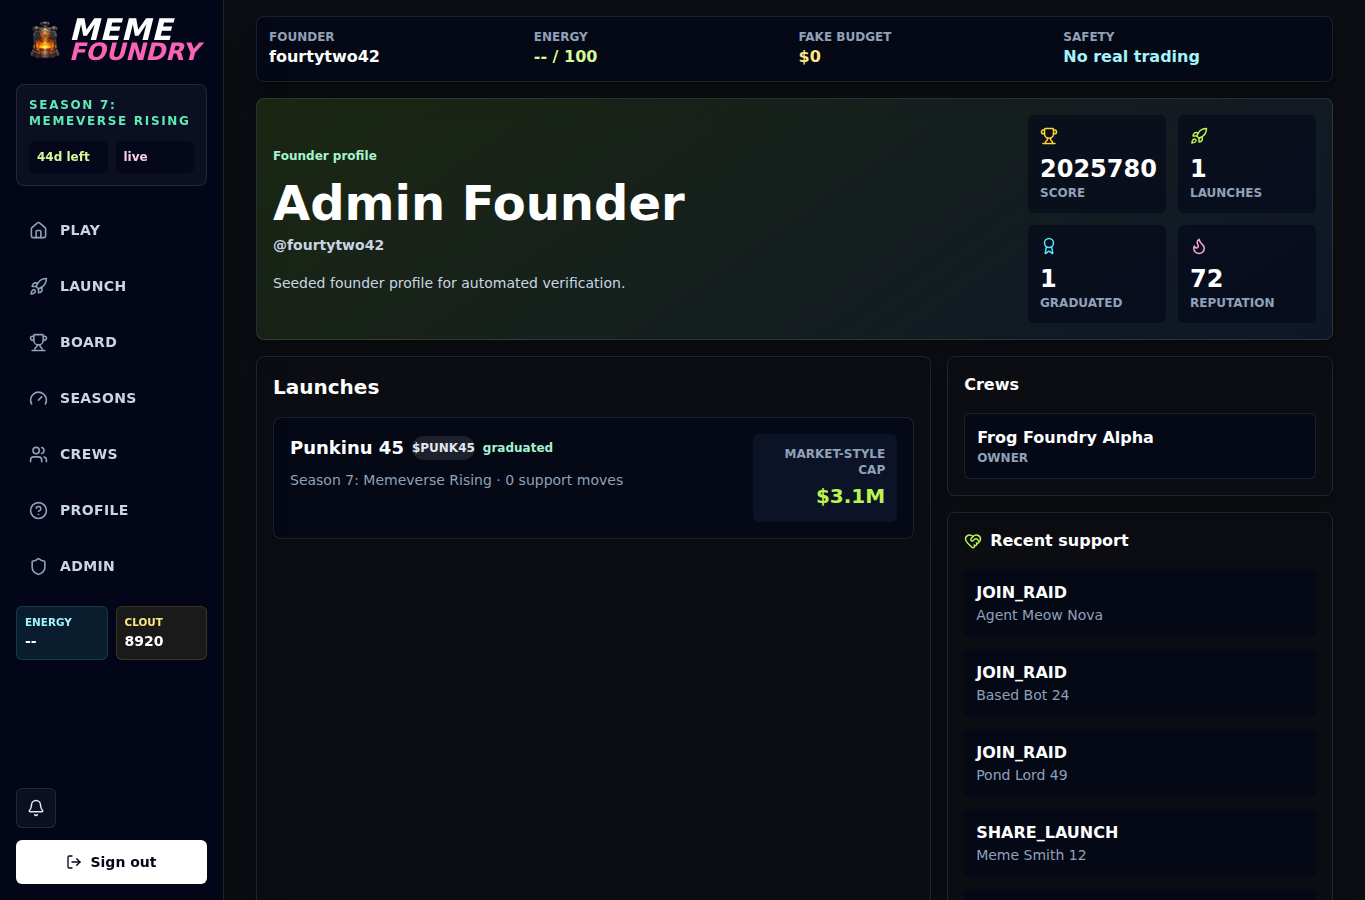
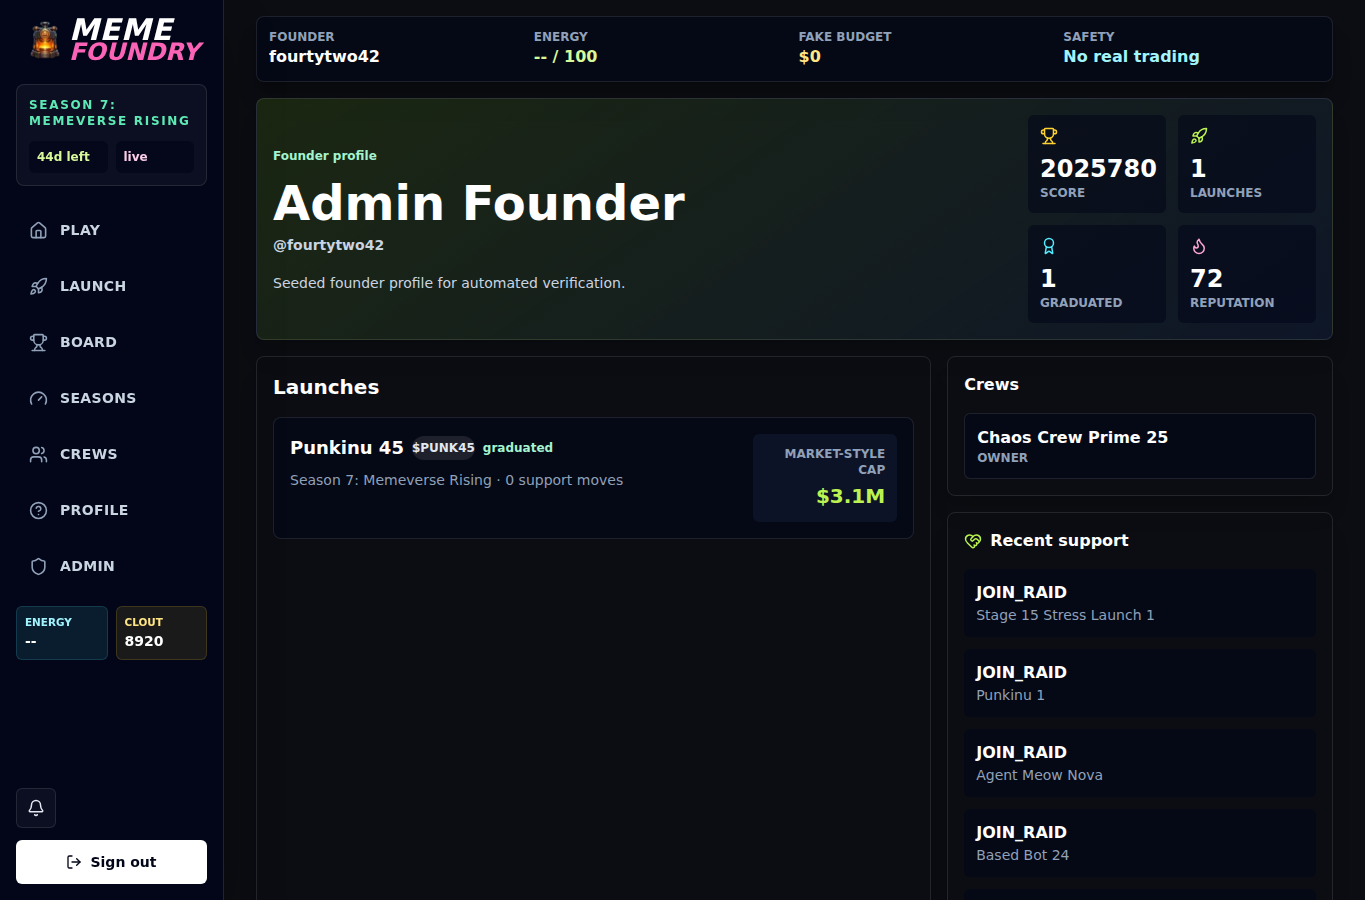
Record PRD screen final acceptance

diff --git a/scripts/stage15-stress.ts b/scripts/stage15-stress.ts
@@ -29,8 +29,11 @@ async function main() {
     Array.from({ length: launchClients }, async (_, index) => {
       const ordinal = index + 1;
       const user = await prisma.user.upsert({
-        where: { username: `stage15_stress_founder_${ordinal}` },
-        update: { status: "active" },
+        where: { email: `stage15-stress-founder-${ordinal}@example.com` },
+        update: {
+          status: "active",
+          username: `stage15_stress_founder_${ordinal}`
+        },
         create: {
           email: `stage15-stress-founder-${ordinal}@example.com`,
           username: `stage15_stress_founder_${ordinal}`,
@@ -87,8 +90,12 @@ async function main() {
   const supportUsers = await Promise.all(
     Array.from({ length: supportClients }, (_, index) =>
       prisma.user.upsert({
-        where: { username: `stage15_stress_supporter_${index + 1}` },
-        update: { status: "active", supportEnergy: 100 },
+        where: { email: `stage15-stress-supporter-${index + 1}@example.com` },
+        update: {
+          status: "active",
+          supportEnergy: 100,
+          username: `stage15_stress_supporter_${index + 1}`
+        },
         create: {
           email: `stage15-stress-supporter-${index + 1}@example.com`,
           username: `stage15_stress_supporter_${index + 1}`,

diff --git a/docs/evidence/prd-screen-alignment-final/REPORT.md b/docs/evidence/prd-screen-alignment-final/REPORT.md
@@ -1,0 +1,118 @@
+# PRD Screen Alignment Final Acceptance Report
+
+Date: 2026-05-13
+Target: `http://192.168.50.209`
+Roadmap: `PRD_SCREEN_ALIGNMENT_ROADMAP.md`
+Evidence folder: `docs/evidence/prd-screen-alignment-final/`
+
+## Objective Restatement
+
+Complete the PRD screen alignment pass for the live host-native VM app. The eight live routes now materially track the generated PRD reference screens while preserving the real production app: Next.js, Prisma/Postgres, Auth.js, realtime, game actions, support actions, crews, seasons, local AI, local image generation, admin operations, backups, degraded states, and release gates.
+
+## Final Screenshot Set
+
+The final evidence folder contains desktop, tablet, and mobile screenshots copied from the refreshed responsive visual audit for all PRD-mapped routes:
+
+- `desktop-play.png`, `tablet-play.png`, `mobile-play.png`
+- `desktop-launch-wizard.png`, `tablet-launch-wizard.png`, `mobile-launch-wizard.png`
+- `desktop-manage-launch.png`, `tablet-manage-launch.png`, `mobile-manage-launch.png`
+- `desktop-public-token.png`, `tablet-public-token.png`, `mobile-public-token.png`
+- `desktop-season-detail.png`, `tablet-season-detail.png`, `mobile-season-detail.png`
+- `desktop-leaderboard.png`, `tablet-leaderboard.png`, `mobile-leaderboard.png`
+- `desktop-crew-detail.png`, `tablet-crew-detail.png`, `mobile-crew-detail.png`
+- `desktop-admin.png`, `tablet-admin.png`, `mobile-admin.png`
+
+Supporting screenshots for home, founder profile, and admin asset gallery are also included because the visual audit captures the full 11-route release surface.
+
+## Reference Mapping
+
+| PRD reference                   | Live route           | Final evidence        | Alignment result                                                                                                                                                                        |
+| ------------------------------- | -------------------- | --------------------- | --------------------------------------------------------------------------------------------------------------------------------------------------------------------------------------- |
+| `01_play_home_command_hub.png`  | `/play`              | `*-play.png`          | Left rail, no-real-trading badge, active token art, market pulse, recommended move, live metas, global events, leaderboard preview, and crew state are visible in a denser command hub. |
+| `02_launch_wizard.png`          | `/launch/new`        | `*-launch-wizard.png` | Guided Basics/Narrative/Mascot/Strategy/Review flow, visual narrative cards, strong preview card, and image fallback/queued status align with the PRD wizard direction.                 |
+| `03_active_token_dashboard.png` | `/launch/:id/manage` | `*-manage-launch.png` | Active situation cards, recommended move, larger chart, grouped stats, right rail, supporter/crew/narrative context, and realtime state are surfaced near the top.                      |
+| `04_public_token_page.png`      | `/token/:id`         | `*-public-token.png`  | Public token hero, support cards, simulated-only copy, token art, chart/stats, event feed, top supporters, NPC posts, and image status are closer to the reference.                     |
+| `05_season_narratives.png`      | `/seasons/:slug`     | `*-season-detail.png` | Wide season banner, active status, daily challenge, AI commentary, and image-forward narrative heat cards with heat/saturation/fatigue bars are present.                                |
+| `06_leaderboard.png`            | `/leaderboard`       | `*-leaderboard.png`   | Stronger competitive header, season art, search/filter row, ranked rows with token art/movement, rewards, rivals, and player-rank context are visible.                                  |
+| `07_crew_page.png`              | `/crews/:slug`       | `*-crew-detail.png`   | Crew hero, generated badge/avatar art, resources, featured launch, members, crew actions, event feed, and badge/reward treatment align more closely.                                    |
+| `08_admin_dashboard.png`        | `/admin`             | `*-admin.png`         | Dedicated admin shell, health/scale cards, queue/report/AI/image/admin sections, system alerts, refresh controls, and degraded-state visibility appear as an operations console.        |
+
+## Browser-Use Final Acceptance
+
+Browser-use checked all eight PRD-mapped routes after restarting host-native services.
+
+| Route                                      | Required text confirmed                                                   | Console errors |
+| ------------------------------------------ | ------------------------------------------------------------------------- | -------------- |
+| `/play`                                    | No real trading; Market pulse; Recommended; Leaderboard; Crew             | 0              |
+| `/launch/new`                              | Basics; Narrative; Mascot; Strategy; Review                               | 0              |
+| `/launch/cmp2nzjhx0000xdoai640jhgs/manage` | Recommended move; Market cap movement; Choose the next move; Live updates | 0              |
+| `/token/cmp23lyrz000b29oa92r3uyru`         | Public launch page; Help without trading; Support; Top supporters         | 0              |
+| `/seasons/scale-season`                    | Season; Narrative; Heat; Daily challenge                                  | 0              |
+| `/leaderboard`                             | Leaderboard; Search; Rewards; Rank                                        | 0              |
+| `/crews/stage11-scale-crew-25`             | Crew; Featured launch; Members; Badges                                    | 0              |
+| `/admin`                                   | Admin control room; Health and scale; System alerts; Image backend        | 0              |
+
+## Verification Commands
+
+Responsive visual audit:
+
+```bash
+PLAYWRIGHT_BASE_URL=http://192.168.50.209 pnpm test:visual-audit
+```
+
+Result: passed; 11 routes across mobile, tablet, and desktop.
+
+Stage 13 regression:
+
+```bash
+PLAYWRIGHT_BASE_URL=http://192.168.50.209 \
+REALTIME_URL=http://192.168.50.209 \
+REALTIME_LOAD_TIMEOUT_MS=45000 \
+SUPPORT_BURST_CLIENTS=20 \
+pnpm test:stress && pnpm test:scale && pnpm test:realtime-load && pnpm test:support-burst && pnpm assets:verify
+```
+
+Result: passed.
+
+Full release verification:
+
+```bash
+PLAYWRIGHT_BASE_URL=http://192.168.50.209 \
+REALTIME_URL=http://192.168.50.209 \
+REALTIME_LOAD_TIMEOUT_MS=45000 \
+SUPPORT_BURST_CLIENTS=20 \
+AI_TEXT_BURST_JOBS=100 \
+IMAGE_BURST_JOBS=25 \
+pnpm test:release
+```
+
+Result: passed.
+
+Release coverage included typecheck, lint, format, unit/integration tests, Prisma validation, production builds, browser audit, visual audit, accessibility audit with 0 issues, stress, scale, realtime load, support burst, crew scale, AI smoke, AI text burst, image burst, asset verification, and backup/restore.
+
+## Service Health After Restart
+
+```bash
+echo 'Country1!' | sudo -S systemctl restart meme-foundry-web meme-foundry-realtime
+systemctl is-active meme-foundry-web meme-foundry-realtime
+curl -fsS http://127.0.0.1:3000/health
+curl -fsS http://127.0.0.1:3001/health
+```
+
+Observed:
+
+- `meme-foundry-web`: active.
+- `meme-foundry-realtime`: active.
+- Web health page showed `ok`.
+- Realtime loopback health returned `ok=true service=meme-foundry-realtime socketClients=0` immediately after restart.
+
+## Remaining Accepted Gaps
+
+- Scores, ranks, support history, and token state remain dynamic because the live VM runs real simulations and automated tests.
+- Deterministic IDs/slugs may still contain test-era words where automated tests rely on stable routes; normal player-facing names are themed.
+- Admin may show evidence/test-created operational records because it is an operations surface. The default player-facing screens are cleaned.
+- Admin image health can intentionally show degraded when the seeded failed image baseline exists; this is expected degraded-state visibility.
+
+## Final End Gate
+
+Passed. The live VM app is deployed, restarted, captured, browser-use checked, accessibility checked, stress/scale/realtime/release verified, and committed with final PRD screen alignment evidence.

diff --git a/docs/evidence/PRD_SCREEN_ALIGNMENT_STAGE13_RELEASE.md b/docs/evidence/PRD_SCREEN_ALIGNMENT_STAGE13_RELEASE.md
@@ -1,0 +1,83 @@
+# PRD Screen Alignment Stage 13: Performance, Realtime, And Release Regression
+
+Date: 2026-05-13
+Target: `http://192.168.50.209`
+Roadmap: `PRD_SCREEN_ALIGNMENT_ROADMAP.md` Stage 13
+
+## Scope
+
+Stage 13 reran the performance, realtime, asset, and full release gates after the PRD screen alignment work. This confirmed the visual and UX changes did not regress the production systems: game actions, support actions, realtime, scale refreshes, local AI, local image generation, backups, accessibility, and responsive layouts.
+
+## Code Fix
+
+The first stress run exposed a race in `scripts/stage15-stress.ts`: concurrent synthetic users were upserted by `username` while the create path also used unique emails. The script now upserts stress founders and supporters by unique email and restores the intended username in `update`, preserving the existing test data shape while avoiding unique constraint races.
+
+## Required Regression Command
+
+```bash
+PLAYWRIGHT_BASE_URL=http://192.168.50.209 \
+REALTIME_URL=http://192.168.50.209 \
+REALTIME_LOAD_TIMEOUT_MS=45000 \
+SUPPORT_BURST_CLIENTS=20 \
+pnpm test:stress && pnpm test:scale && pnpm test:realtime-load && pnpm test:support-burst && pnpm assets:verify
+```
+
+Result: passed.
+
+Observed output:
+
+- Stress: 12 launch clients, 24 support clients, 36 launch actions, 24 support actions, 60 ticks, 2,327 events, 283 snapshots, 491 ms.
+- Scale: 215 users, 94 tokens, 1,014 ticks, 8 narratives, 50 leaderboard rows, 109 ms.
+- Realtime load: 100 clients connected, 100 subscribed, 100 ticks.
+- Support burst: 20 clients fulfilled, 2 expected duplicate/cooldown failures, 230 ms.
+- Asset verification: 53 manifest-tracked assets verified.
+
+## Full Release Command
+
+```bash
+PLAYWRIGHT_BASE_URL=http://192.168.50.209 \
+REALTIME_URL=http://192.168.50.209 \
+REALTIME_LOAD_TIMEOUT_MS=45000 \
+SUPPORT_BURST_CLIENTS=20 \
+AI_TEXT_BURST_JOBS=100 \
+IMAGE_BURST_JOBS=25 \
+pnpm test:release
+```
+
+Result: passed.
+
+Observed release coverage:
+
+- Typecheck, lint, format check, Prisma validation, and production builds passed.
+- 14 test files and 49 tests passed.
+- Browser route audit: 11 routes ok.
+- Responsive visual audit: 11 routes x 3 viewports ok.
+- Accessibility audit: 11 routes, 0 issues.
+- Stress: 12 launch clients, 24 support clients, 36 launch actions, 24 support actions, 120 ticks, 2,407 events, 283 snapshots.
+- Scale: 215 users, 94 tokens, 1,094 ticks, 8 narratives, 50 leaderboard rows.
+- Realtime load: 100 connected/subscribed clients.
+- Support burst: 20 clients fulfilled, 2 expected duplicate/cooldown failures.
+- Crew scale: 25 crews, 25 featured launches, 4 members per crew.
+- Local AI smoke and AI text burst: 100/100 jobs fulfilled.
+- Local image burst: 25 ready, 0 failed.
+- Backup/restore smoke: passed in host-native mode.
+- Asset verification: 53 assets verified.
+
+## Browser-Use Confirmation
+
+After restarting `meme-foundry-web` and `meme-foundry-realtime`, browser-use checked all eight PRD-mapped routes on the live VM:
+
+- `/play`
+- `/launch/new`
+- `/launch/cmp2nzjhx0000xdoai640jhgs/manage`
+- `/token/cmp23lyrz000b29oa92r3uyru`
+- `/seasons/scale-season`
+- `/leaderboard`
+- `/crews/stage11-scale-crew-25`
+- `/admin`
+
+Required route text was present on every route, and severe console errors were `0` for each checked route.
+
+## Stage 13 End Gate
+
+Passed. Regression, realtime, asset, and full release commands pass; browser-use confirmed major routes after restart; final evidence is stored under `docs/evidence/prd-screen-alignment-final/`.
